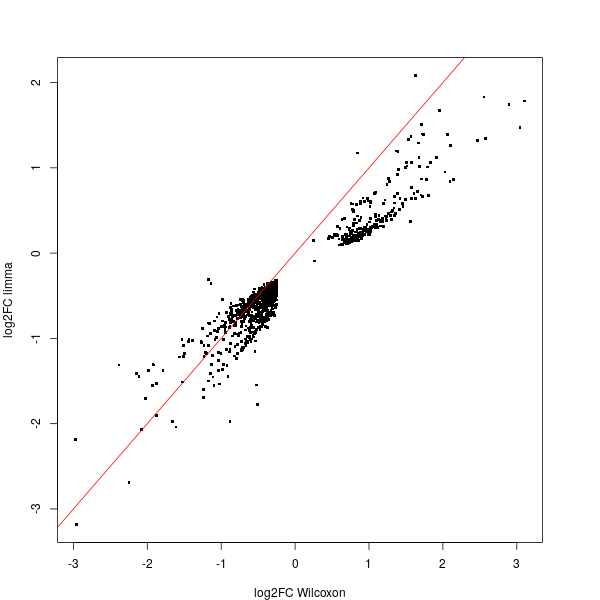
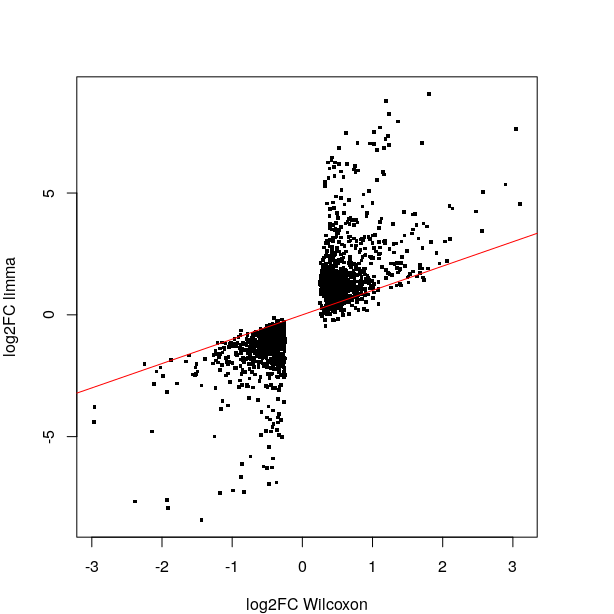
edits_DE_pseudobulk_2

diff --git a/docs/day3/differential_gene_expression.md b/docs/day3/differential_gene_expression.md
@@ -207,37 +207,77 @@ Let's say we are specifically interested to test for differential gene expressio
 !!! note
     Here we could also test for e.g. healthy versus diseased within a celltype/cluster.
 
-Now we will run differential expression analysis between cell type *delta* and *gamma* using the technology as a covariate by using `limma`.
+Now we will run differential expression analysis between tumor and healthy cells using the patient ID as a covariate by using `limma`.
 
-Get the count matrix and keep only genes that are expressed in at least one cell (how many are left?):
+Prepare the pseudobulk count matrix:
 
 ```R
-counts <- Seurat::GetAssayData(proB, slot = "counts")
-counts <- counts[rowSums(counts) != 0,]
-dim(counts)
+#taking the proB data 
+Seurat::DefaultAssay(proB) <- "RNA"
+Seurat::Idents(proB) <- proB$orig.ident
+
+## add the patient id also for paired DGE
+proB$patient.id<-gsub("ETV6-RUNX1", "ETV6_RUNX1", proB$orig.ident)
+proB$patient.id<-sapply(strsplit(proB$patient.id, "-"), '[', 2)
+
+## Here we do perform pseudo-bulk:
+##first a mandatory column of sample needs to be added to the meta data that is the grouping factor, should be the samples
+proB$sample <- factor(proB$orig.ident)
+
+##first an sce object is needed
+sce_proB <- as.SingleCellExperiment(proB)
+
+#The needed package has to be installed if not already done:
+if (!require("BiocManager", quietly = TRUE))
+  install.packages("BiocManager")
+BiocManager::install("scuttle")
+
+library(scuttle)
+
+##aggregateAcrossCells here it is only aggregated by sample, one could imagine
+##to aggregate by sample and by celltype for instance
+summed <- aggregateAcrossCells(sce_proB, 
+                               id=colData(sce_proB)[,c("sample")])
+
+##have a look at the counts
+counts(summed)[1:3,]
+
+#have a look at the colData of our new object summed, can you see type and 
+#patient.id are there
+head(colData(summed))
+
 ```
 
-Generate a `DGEList` object to use as input for `limma`:
+Generate a `DGEList` object to use as input for `limma` and filter the genes to remove lowly expressed genes. How many are left?
 
 ```R
-dge <- edgeR::DGEList(counts = counts)
-dge <- edgeR::calcNormFactors(dge)  
+#As in the standard limma analysis generate a DGE object
+
+y <- DGEList(counts(summed), samples=colData(summed)$sample)
+
+##filter lowly expressed (recommanded for limma)
+keep <- filterByExpr(y, group=summed$type)
+y <- y[keep,]
+
+##see how many genes were kept 
+summary(keep)
+
 ```
 
 Generate a design matrix, including patient ID to model for a paired analysis. If you need help to generate a design matrix, check out the very nice [edgeR User Guide](https://bioconductor.org/packages/release/bioc/vignettes/edgeR/inst/doc/edgeRUsersGuide.pdf), sections 3.3 and 3.4.
 Extract the sample ID from the meta.data, then create the design matrix:
 
 ```R
-proB$patient.id<-gsub("ETV6-RUNX1", "ETV6_RUNX1", proB$orig.ident)
-proB$patient.id<-sapply(strsplit(proB$patient.id, "-"), '[', 2)
+## Create the design matrix and include the technology as a covariate:
+design <- model.matrix(~0 + summed$type + summed$patient.id)
 
-design <- model.matrix(~ 0 + type + patient.id , 
-                        data = proB@meta.data)
+# Have a look
+design
 
-head(design)
+# change column/rownames names to more simple group names: 
+colnames(design) <- make.names(c("ETV6-RUNX1", "PBMMC","patient2","patient3"))
+rownames(design)<-colData(summed)$sample
 
-# change column names to more simple group names: 
-colnames(design)[c(1:2)] <- make.names(c("ETV6-RUNX1", "PBMMC"))
 
 ```
 
@@ -246,11 +286,15 @@ Specify which contrast to analyse:
 ```R
 contrast.mat <- limma::makeContrasts(ETV6.RUNX1 - PBMMC,
                                      levels = design)
+
 ```
 
-Now `limma` can perform the transformation with `voom`, fit the model, compute the contrasts and compute test statistics with `eBayes`:
+Firt, we perform TMM normalization using edgeR, and then `limma` can perform the transformation with `voom`, fit the model, compute the contrasts and compute test statistics with `eBayes`:
 
 ```R
+dge <- edgeR::calcNormFactors(y)  
+
+#Do limma
 vm <- limma::voom(dge, design = design, plot = TRUE)
 fit <- limma::lmFit(vm, design = design)
 fit.contrasts <- limma::contrasts.fit(fit, contrast.mat)
@@ -259,8 +303,8 @@ fit.contrasts <- limma::eBayes(fit.contrasts)
 
 We can use `topTable` to get the most significantly differentially expressed genes, and save the full DE results to an object. How many genes are significant? Are you suprised by this number?
 ```R
+# Show the top differentially expressed genes:
 limma::topTable(fit.contrasts, number = 10, sort.by = "P")
-
 limma_de <- limma::topTable(fit.contrasts, number = Inf, sort.by = "P")
 length(which(limma_de$adj.P.Val<0.05))
 
@@ -294,13 +338,9 @@ Keep the `tum_vs_norm` object because we will use this output object for the enr
     ```
     We find 1893 significant genes. If we merge the `FindMarkers` and the `limma` results, keep `limma`'s most significant genes and plot:
     ```R
-    merge_limma_FindMarkers <- merge(tum_vs_norm, 
-                                     limma_de, 
-                                     by="row.names",
-                                     all.x=T)
-    merge_limma_FindMarkers <- subset(merge_limma_FindMarkers,
-                                      merge_limma_FindMarkers$adj.P.Val<0.00001)
-
+    merge_limma_FindMarkers <- merge(tum_vs_norm, limma_de, by="row.names",
+                               all.x=T)
+    
     par(mar=c(4,4,4,4))
     plot(merge_limma_FindMarkers$avg_log2FC,
     merge_limma_FindMarkers$logFC,
